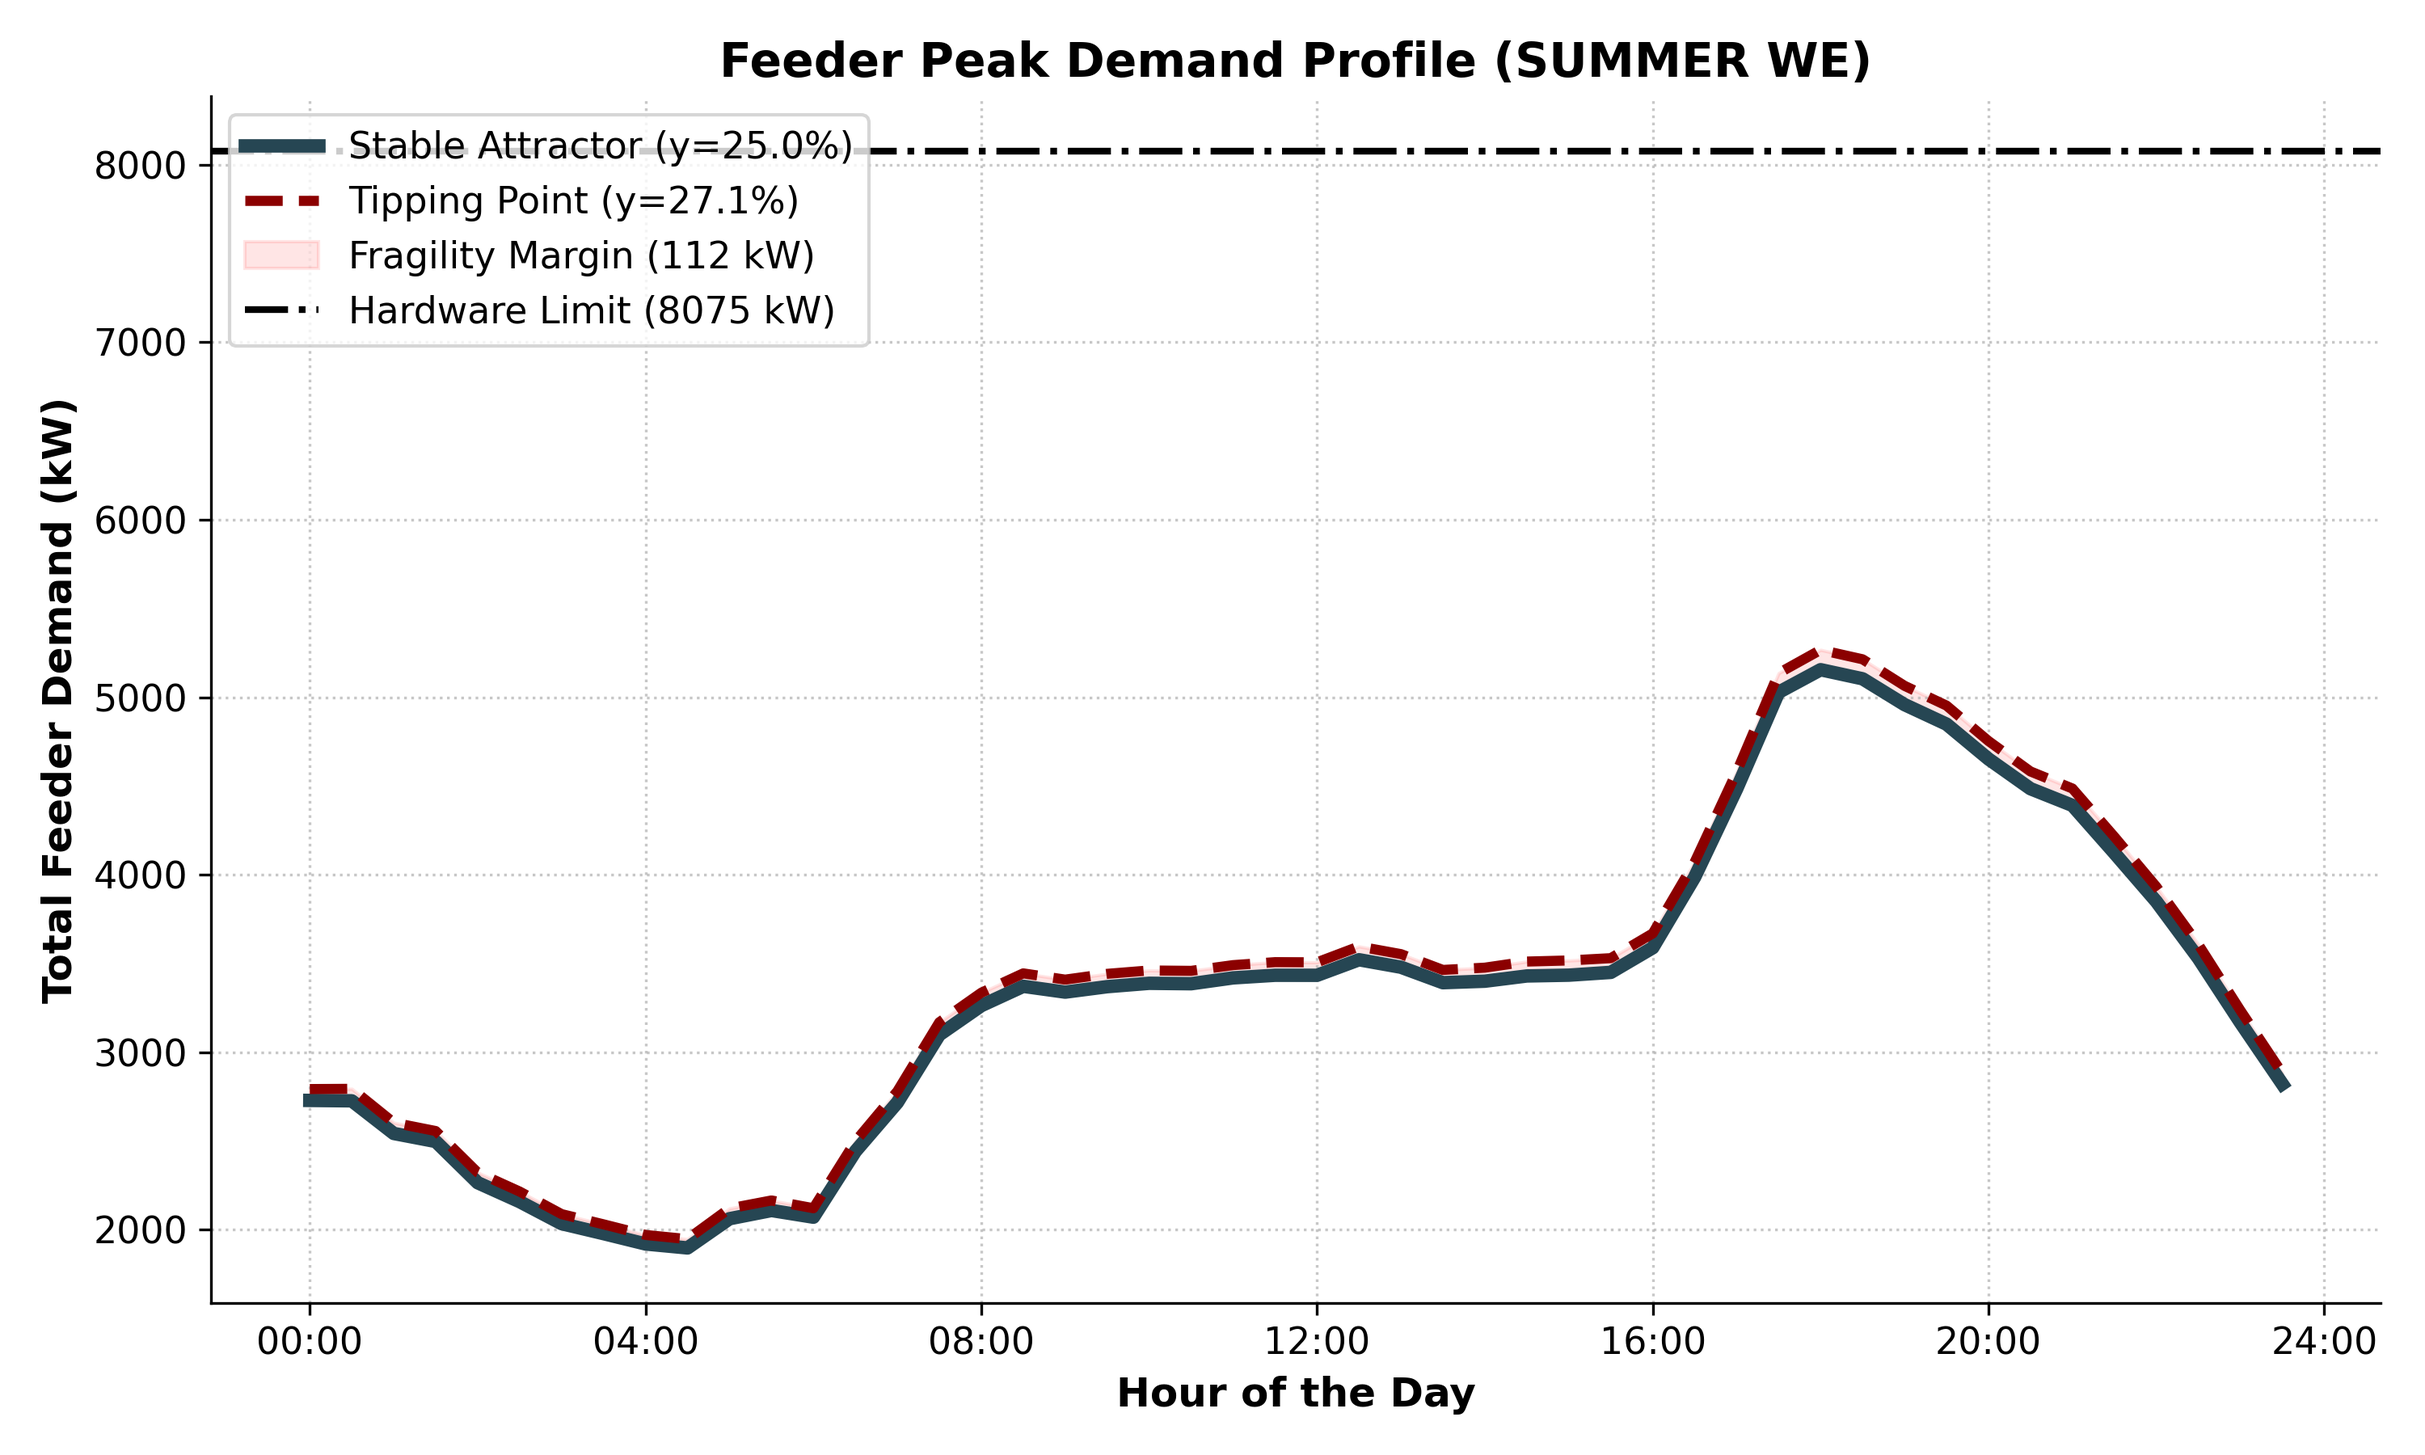
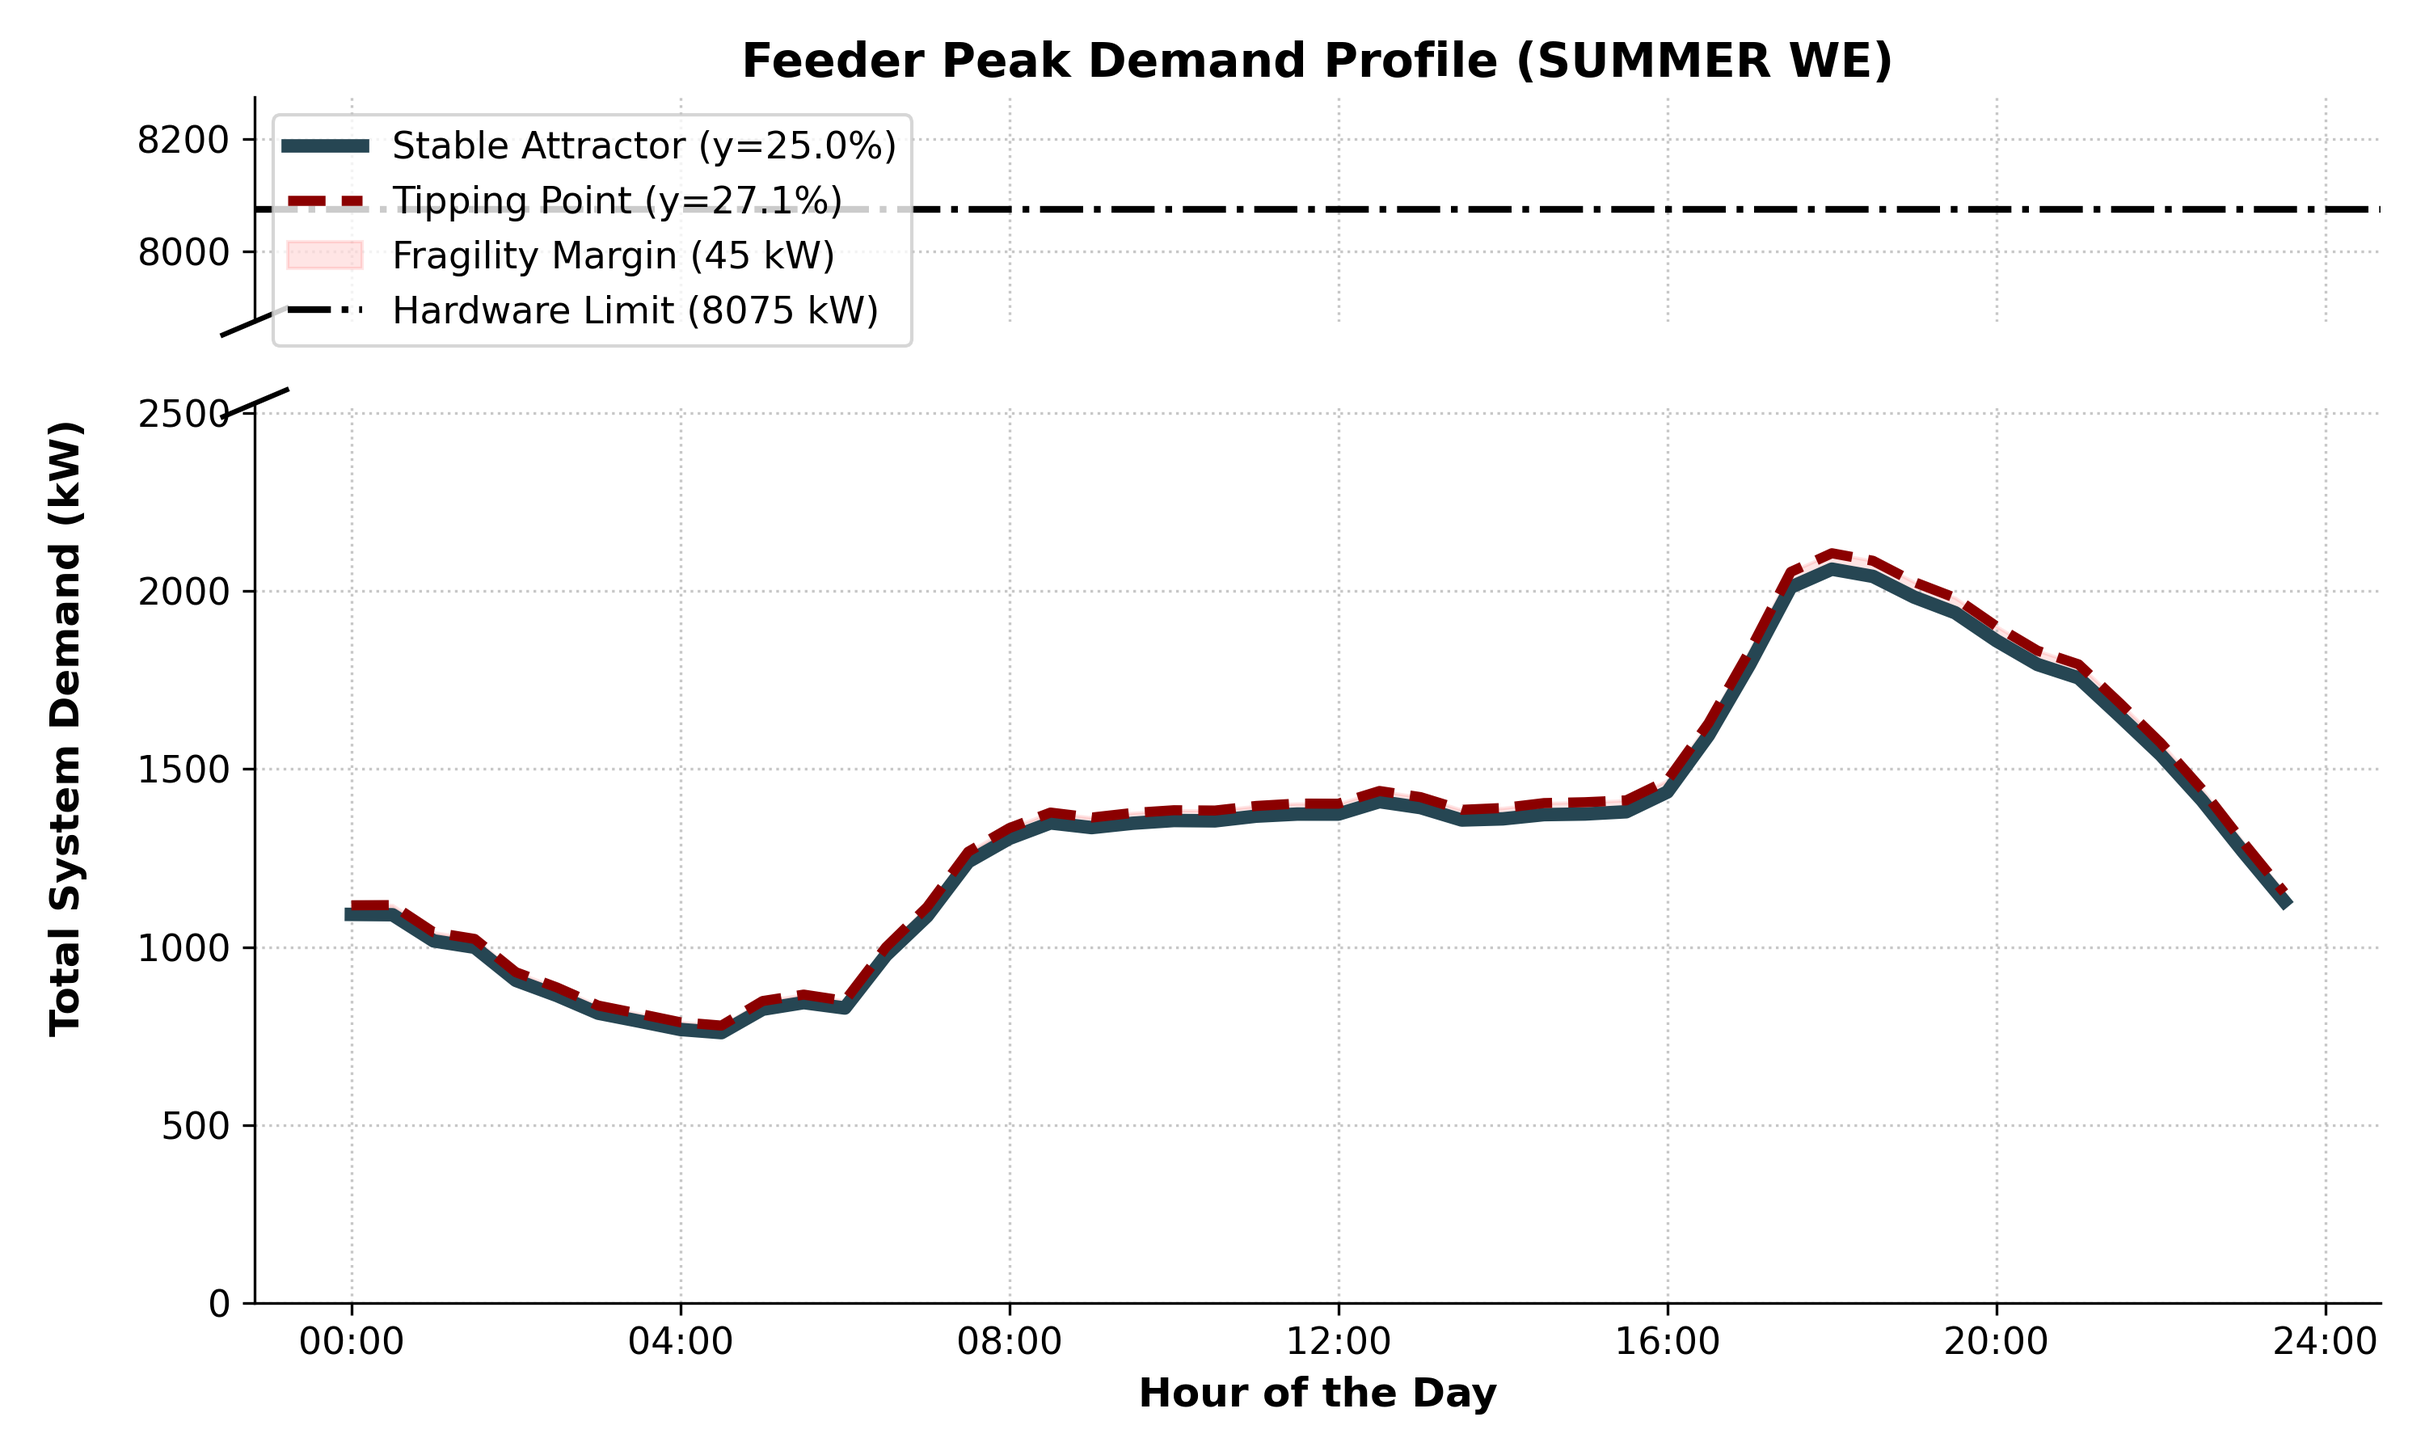
Wh fix

diff --git a/8 - Bifurcation Analysis/21-bifurcation.py b/8 - Bifurcation Analysis/21-bifurcation.py
@@ -8,12 +8,22 @@ warnings.filterwarnings("ignore")
 TARGET_CONTEXT = "SUMMER WD"
 TRANSFORMER_LIMIT_KW = 8075  
 
+# Conversion: raw centroids are Wh per 30-min interval, per feeder
+# Multiply by 2 to hourly (Wh -> W), divide by 1000 (W -> kW),
+# scale across all 200 feeders 
+N_FEEDERS = 200
+WH_TO_KW = 2 / 1000
+SYSTEM_SCALE = N_FEEDERS * WH_TO_KW   # = 0.4
+
 with open("coefficients.json", 'r') as f:
     coeffs = json.load(f)[TARGET_CONTEXT]
 A_BASE, B_BASE, C_BASE = coeffs["A"], coeffs["B"], coeffs["C"]
 
 raw_data = np.load("centroids_k2.npy")
 centroids = raw_data.T if raw_data.shape == (48, 2) else raw_data
+
+# Apply unit conversion - Wh per feeder -> kW across full virtual network
+centroids = centroids * SYSTEM_SCALE
 
 if np.max(centroids[1]) > np.max(centroids[0]):
     prey_centroid, predator_centroid = centroids[0], centroids[1]
@@ -72,56 +82,81 @@ COLOR_FILL = '#E0E7FA'
 
 def create_bifurcation_plot(stable_history, unstable_history, b_mu, b_kw, title, filename):
     plt.rcParams.update({'font.size': 11, 'font.family': 'sans-serif'})
-    fig, ax = plt.subplots(figsize=(10, 6.5))
-
-    ax.plot(mu_values, stable_history, color=COLOR_STABLE, linewidth=3.5, label='Stable Attractor')
-    ax.plot(mu_values, unstable_history, color=COLOR_UNSTABLE, linewidth=2.5, linestyle='--', label='Unstable Saddle')
-    ax.fill_between(mu_values, stable_history, unstable_history, color=COLOR_FILL, alpha=0.6, label='Operational Margin')
     
-    ax.axhline(TRANSFORMER_LIMIT_KW, color='black', linestyle='-.', linewidth=2.5, label=f'Hardware Limit ({TRANSFORMER_LIMIT_KW} kW)')
+    fig, (ax_top, ax_bot) = plt.subplots(
+        2, 1, 
+        sharex=True, 
+        figsize=(10, 6.5), 
+        gridspec_kw={'height_ratios': [1, 4]}
+    )
+    fig.subplots_adjust(hspace=0.08)
 
     x_max_limit = b_mu + 0.05 if b_mu else max(mu_values)
 
+    for ax in (ax_top, ax_bot):
+        ax.plot(mu_values, stable_history, color=COLOR_STABLE, linewidth=3.5, label='Stable Attractor')
+        ax.plot(mu_values, unstable_history, color=COLOR_UNSTABLE, linewidth=2.5, linestyle='--', label='Unstable Saddle')
+        ax.fill_between(mu_values, stable_history, unstable_history, color=COLOR_FILL, alpha=0.6, label='Operational Margin')
+        ax.axhline(TRANSFORMER_LIMIT_KW, color='black', linestyle='-.', linewidth=2.5, label=f'Hardware Limit ({TRANSFORMER_LIMIT_KW} kW)')
+
+        if b_mu:
+            ax.axvspan(b_mu, x_max_limit, color='#FAECEF', alpha=0.7)
+            ax.scatter([b_mu], [b_kw], color=COLOR_UNSTABLE, s=120, zorder=5, edgecolor='white', linewidth=1.5)
+            ax.axhline(b_kw, color='black', linestyle=':', alpha=0.3, linewidth=1.5)
+
     if b_mu:
-        ax.scatter([b_mu], [b_kw], color=COLOR_UNSTABLE, s=120, zorder=5, edgecolor='white', linewidth=1.5)
-        ax.axhline(b_kw, color='black', linestyle=':', alpha=0.3, linewidth=1.5)
-        
-        ax.axvspan(b_mu, x_max_limit, color='#FAECEF', alpha=0.7)
-      
         text_x_pos = b_mu + ((x_max_limit - b_mu) / 2)
-        ax.text(text_x_pos, b_kw, 'Topological\nCollapse', 
+        ax_bot.text(text_x_pos, b_kw, 'Topological\nCollapse', 
                 ha='center', va='center', color='#8A1C36', fontweight='bold', alpha=0.9, fontsize=12)
         
-        ax.annotate(f'Bifurcation Point\n({b_kw:.0f} kW)', 
+        ax_bot.annotate(f'Bifurcation Point\n({b_kw:.0f} kW)', 
                      xy=(b_mu, b_kw), 
-                     xytext=(b_mu - 0.02, b_kw + 300),
+                     xytext=(b_mu - 0.02, b_kw + 150),
                      arrowprops=dict(facecolor='black', shrink=0.05, width=1.5, headwidth=6, headlength=8, edgecolor='none'),
                      ha='right', va='bottom', fontweight='bold', color='black', fontsize=11)
 
-    ax.set_title(title, fontsize=14, fontweight='bold', pad=15)
-    ax.set_xlabel(r"Stress Parameter ($\mu$)", fontsize=12, fontweight='bold', labelpad=10)
-    ax.set_ylabel("Total Feeder Demand (kW)", fontsize=12, fontweight='bold', labelpad=10)
+    ax_top.set_title(title, fontsize=14, fontweight='bold', pad=15)
+    ax_bot.set_xlabel(r"Stress Parameter ($\mu$)", fontsize=12, fontweight='bold', labelpad=10)
+    fig.text(0.02, 0.5, 'Total Feeder Demand (kW)', va='center', rotation='vertical', fontsize=12, fontweight='bold')
 
     def pct_formatter(x, pos): return "Baseline" if x == 1.0 else f"+{(x-1.0)*100:.1f}%"
-    ax.xaxis.set_major_formatter(ticker.FuncFormatter(pct_formatter))
-    ax.yaxis.set_major_formatter(ticker.FormatStrFormatter('%d kW'))
+    ax_bot.xaxis.set_major_formatter(ticker.FuncFormatter(pct_formatter))
+    ax_bot.yaxis.set_major_formatter(ticker.FormatStrFormatter('%d kW'))
+    ax_top.yaxis.set_major_formatter(ticker.FormatStrFormatter('%d kW'))
 
-    ax.grid(True, linestyle=':', alpha=0.7, color='black')
-    ax.spines['top'].set_visible(False)
-    ax.spines['right'].set_visible(False)
-    ax.spines['left'].set_linewidth(1.2)
-    ax.spines['bottom'].set_linewidth(1.2)
-    
-    ax.legend(loc='upper left', framealpha=0.95, fontsize=10)
+    for ax in (ax_top, ax_bot):
+        ax.grid(True, linestyle=':', alpha=0.7, color='black')
+        ax.spines['top'].set_visible(False)
+        ax.spines['right'].set_visible(False)
+        ax.spines['left'].set_linewidth(1.2)
+
+    ax_top.spines['bottom'].set_visible(False)
+    ax_bot.spines['top'].set_visible(False)
+    ax_bot.spines['bottom'].set_linewidth(1.2)
+
+    handles, labels = ax_bot.get_legend_handles_labels()
+    by_label = dict(zip(labels, handles))
+    ax_top.legend(by_label.values(), by_label.keys(), loc='upper left', framealpha=0.95, fontsize=10)
 
     min_kw = np.nanmin(stable_history)
-    max_kw = np.nanmax(unstable_history)
-    padding = (max_kw - min_kw) * 0.25
     
-    ax.set_xlim(1.0, x_max_limit)
-    ax.set_ylim(min_kw - padding, max(max_kw + padding, TRANSFORMER_LIMIT_KW + 500))
+    ax_bot.set_xlim(1.0, x_max_limit)
+    ax_top.set_xlim(1.0, x_max_limit)
+    
+    # Exact specified split boundaries
+    ax_bot.set_ylim(min_kw - 100, 3000)
+    ax_top.set_ylim(8000, TRANSFORMER_LIMIT_KW + 150)
 
-    plt.tight_layout()
+    ax_top.tick_params(labelbottom=False, bottom=False)
+    ax_bot.xaxis.tick_bottom()
+
+    d = .015  
+    kwargs = dict(transform=ax_top.transAxes, color='k', clip_on=False, linewidth=1.5)
+    ax_top.plot((-d, +d), (-d*4, +d*4), **kwargs)        
+    kwargs.update(transform=ax_bot.transAxes)  
+    ax_bot.plot((-d, +d), (1 - d, 1 + d), **kwargs) 
+
+    plt.tight_layout(rect=[0.04, 0, 1, 1])
     plt.savefig(filename, dpi=300, bbox_inches='tight')
     print(f"Saved: {filename}")
     plt.close(fig)

diff --git a/7 - Peak Demand/20-demand.py b/7 - Peak Demand/20-demand.py
@@ -6,6 +6,13 @@ FILE_CENTROIDS = "centroids_k2.npy"
 COEFFS_FILE = "coefficients.json"
 TRANSFORMER_LIMIT_KW = 8075  
 
+# Conversion: raw centroids are Wh per 30-min interval, per feeder
+# Multiply by 2 to hourly (Wh -> W), divide by 1000 (W -> kW),
+# scale across all 200 feeders 
+N_FEEDERS = 200
+WH_TO_KW = 2 / 1000
+SYSTEM_SCALE = N_FEEDERS * WH_TO_KW   # = 0.4
+
 # Load PySINDy coefficients
 with open(COEFFS_FILE, 'r') as f:
     contexts = json.load(f)
@@ -14,7 +21,9 @@ with open(COEFFS_FILE, 'r') as f:
 raw_data = np.load(FILE_CENTROIDS)
 centroids = raw_data.T if raw_data.shape == (48, 2) else raw_data
 
-# Removed the / 1000.0 division so it stays in total feeder scale
+# Apply unit conversion - Wh per feeder -> kW across full virtual network
+centroids = centroids * SYSTEM_SCALE
+
 if np.max(centroids[0]) > np.max(centroids[1]):
     predator_centroid, prey_centroid = centroids[0], centroids[1]
 else:
@@ -23,8 +32,8 @@ else:
 # Process each extracted context
 for ctx_name, coeffs in contexts.items():
     print(f"\n{ctx_name}")
-    
     A, B, C = coeffs["A"], coeffs["B"], coeffs["C"]
+
     q_a, q_b, q_c = -C, A - B + C, B
 
     # Solve for equilibrium roots
@@ -34,57 +43,92 @@ for ctx_name, coeffs in contexts.items():
         roots = np.roots([q_a, q_b, q_c])
 
     valid_roots = [r.real for r in roots if 0.0 <= r.real <= 1.0 and not np.iscomplex(r)]
-    
+
     if not valid_roots:
         print("No valid physical roots")
         continue
 
     valid_roots.sort(reverse=True) 
-    
-    stable_node = {"prey": valid_roots[0], "predator": 1.0 - valid_roots[0]}
+
+    stable_node   = {"prey": valid_roots[0], "predator": 1.0 - valid_roots[0]}
     unstable_node = {"prey": valid_roots[1], "predator": 1.0 - valid_roots[1]} if len(valid_roots) == 2 else None
 
-    # Reconstruct physical peak demand profiles for the whole feeder
+    # Reconstruct physical peak demand profiles across the whole virtual network (kW)
     stable_profile = (stable_node["prey"] * prey_centroid) + (stable_node["predator"] * predator_centroid)
     print(f"Stable Peak Demand:   {np.max(stable_profile):.0f} kW")
 
     delta_margin = 0
+    max_demand_plotted = np.max(stable_profile)
+    
     if unstable_node:
         unstable_profile = (unstable_node["prey"] * prey_centroid) + (unstable_node["predator"] * predator_centroid)
         delta_margin = np.max(unstable_profile) - np.max(stable_profile)
+        max_demand_plotted = np.max(unstable_profile)
         print(f"Unstable Peak Demand: {np.max(unstable_profile):.0f} kW")
         print(f"Delta Margin:         {delta_margin:.0f} kW headroom")
 
     # Setup plotting limits and labels
     plt.rcParams.update({'font.size': 11, 'font.family': 'sans-serif'})
-    fig, ax = plt.subplots(figsize=(10, 6))
-    hours = np.linspace(0, 24, 48, endpoint=False)
-    ticks = range(0, 25, 4)
+    fig, (ax_top, ax_bot) = plt.subplots(
+        2, 1, 
+        sharex=True, 
+        figsize=(10, 6), 
+        gridspec_kw={'height_ratios': [1, 4]}
+    )
+    fig.subplots_adjust(hspace=0.08)
+
+    hours      = np.linspace(0, 24, 48, endpoint=False)
+    ticks      = range(0, 25, 4)
     tick_labels = [f"{h:02d}:00" for h in ticks]
 
     # Plot Equilibrium Forecasts
-    ax.plot(hours, stable_profile, color='#264653', linewidth=4, label=f'Stable Attractor (y={stable_node["predator"]*100:.1f}%)')
+    for ax in (ax_top, ax_bot):
+        ax.plot(hours, stable_profile, color='#264653', linewidth=4,
+                label=f'Stable Attractor (y={stable_node["predator"]*100:.1f}%)')
 
-    if unstable_node:
-        ax.plot(hours, unstable_profile, color='darkred', linewidth=3, linestyle='--', label=f'Tipping Point (y={unstable_node["predator"]*100:.1f}%)')
-        ax.fill_between(hours, stable_profile, unstable_profile, color='red', alpha=0.1, label=f'Fragility Margin ({delta_margin:.0f} kW)')
+        if unstable_node:
+            ax.plot(hours, unstable_profile, color='darkred', linewidth=3, linestyle='--',
+                    label=f'Tipping Point (y={unstable_node["predator"]*100:.1f}%)')
+            ax.fill_between(hours, stable_profile, unstable_profile,
+                            color='red', alpha=0.1, label=f'Fragility Margin ({delta_margin:.0f} kW)')
 
-    ax.set_title(f"Feeder Peak Demand Profile ({ctx_name})", fontsize=14, fontweight='bold')
-    ax.set_xlabel("Hour of the Day", fontsize=12, fontweight='bold')
-    ax.set_ylabel("Total Feeder Demand (kW)", fontsize=12, fontweight='bold')
-    ax.set_xticks(ticks)
-    ax.set_xticklabels(tick_labels)
-    ax.grid(True, linestyle=':', alpha=0.7)
+        ax.grid(True, linestyle=':', alpha=0.7)
+
+        # The Hardware Limit
+        ax.axhline(TRANSFORMER_LIMIT_KW, color='black', linestyle='-.', linewidth=2,
+                   label=f'Hardware Limit ({TRANSFORMER_LIMIT_KW} kW)')
+
+    ax_top.set_ylim(TRANSFORMER_LIMIT_KW - 200, TRANSFORMER_LIMIT_KW + 200)
+    ax_bot.set_ylim(0, max_demand_plotted * 1.2)
+
+    ax_top.set_title(f"Feeder Peak Demand Profile ({ctx_name})", fontsize=14, fontweight='bold')
+    ax_bot.set_xlabel("Hour of the Day", fontsize=12, fontweight='bold')
+    fig.text(0.02, 0.5, 'Total System Demand (kW)', va='center', rotation='vertical', fontsize=12, fontweight='bold')
     
-    # The Hardware Limit
-    ax.axhline(TRANSFORMER_LIMIT_KW, color='black', linestyle='-.', linewidth=2, label=f'Hardware Limit ({TRANSFORMER_LIMIT_KW} kW)')
-    ax.legend(loc='upper left', fontsize=11)
+    ax_bot.set_xticks(ticks)
+    ax_bot.set_xticklabels(tick_labels)
+
+    handles, labels = ax_bot.get_legend_handles_labels()
+    by_label = dict(zip(labels, handles))
+    ax_top.legend(by_label.values(), by_label.keys(), loc='upper left', fontsize=11)
 
     # Clean up the borders
-    ax.spines['top'].set_visible(False)
-    ax.spines['right'].set_visible(False)
+    ax_top.spines['bottom'].set_visible(False)
+    ax_bot.spines['top'].set_visible(False)
+    ax_top.spines['top'].set_visible(False)
+    ax_top.spines['right'].set_visible(False)
+    ax_bot.spines['right'].set_visible(False)
 
-    plt.tight_layout()
+    ax_top.tick_params(labelbottom=False, bottom=False) 
+    ax_bot.xaxis.tick_bottom()
+
+    d = .015  
+    kwargs = dict(transform=ax_top.transAxes, color='k', clip_on=False, linewidth=1.5)
+    ax_top.plot((-d, +d), (-d*4, +d*4), **kwargs)        
+    kwargs.update(transform=ax_bot.transAxes)  
+    ax_bot.plot((-d, +d), (1 - d, 1 + d), **kwargs)      
+
+    plt.tight_layout(rect=[0.04, 0, 1, 1]) 
     filename = f"demand_{ctx_name.replace(' ', '_')}.png"
     plt.savefig(filename, dpi=300)
     plt.close(fig)
